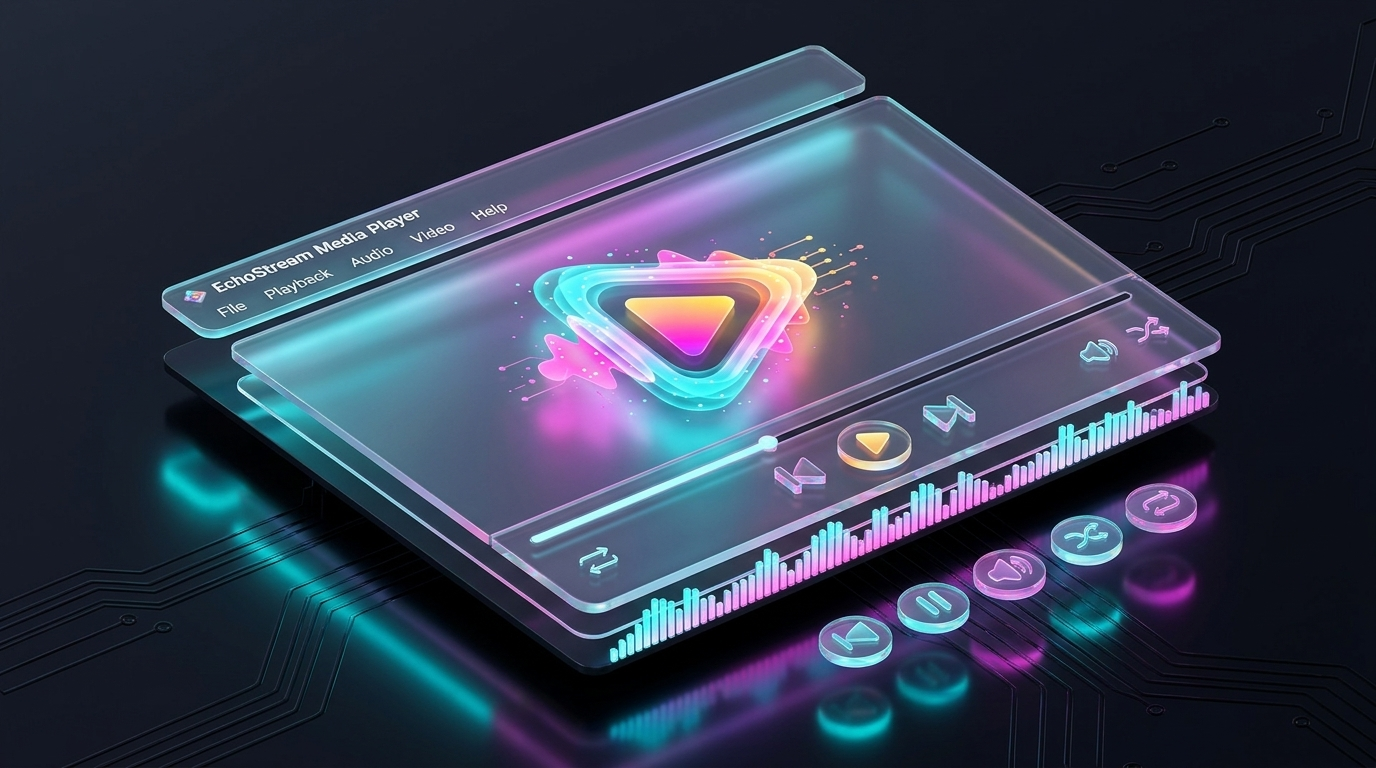
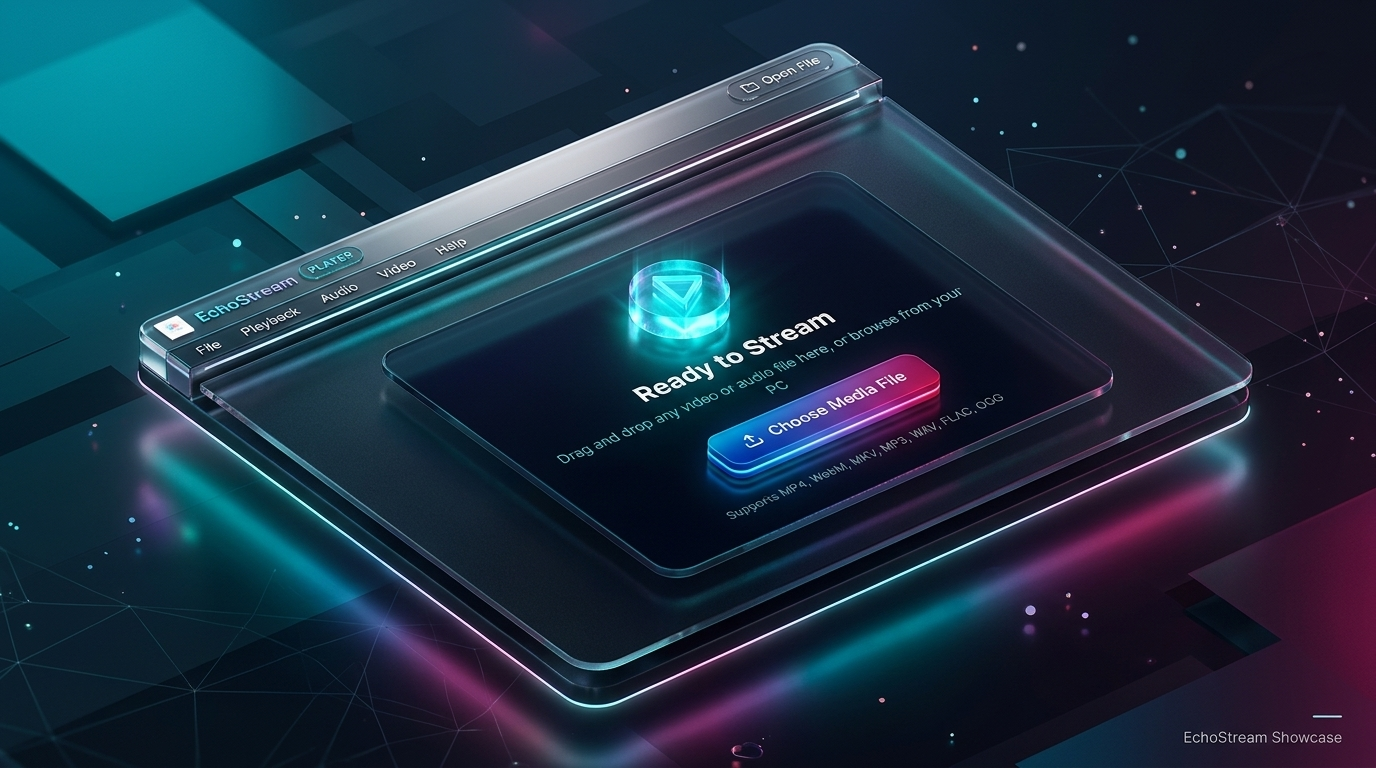
feat(projects): add Spotify Clone, update EchoStream image & badge, and enhance project badges

diff --git a/src/data/portfolioData.js b/src/data/portfolioData.js
@@ -150,7 +150,7 @@ export const projects = [
   },
   {
     id: "portfolio",
-    title: "Personal Portfolio v2",
+    title: "Personal Portfolio",
     badge: "React & Vite",
     featured: false,
     category: "frontend",
@@ -171,8 +171,8 @@ export const projects = [
   },
   {
     id: "echostream",
-    title: "EchoStream Player",
-    badge: "Audio App",
+    title: "EchoStream Media Player",
+    badge: "Audio & Video Player",
     featured: false,
     category: "frontend",
     icon: "Music",
@@ -188,6 +188,27 @@ export const projects = [
     links: {
       github: "https://github.com/ajitkumarsaini02/EchoStream-Media-Player",
       demo: "https://echostream-media-player.netlify.app/"
+    }
+  },
+  {
+    id: "spotify-clone",
+    title: "Spotify Clone",
+    badge: "Web Player Clone",
+    featured: false,
+    category: "frontend",
+    icon: "Headphones",
+    image: "/assets/projects/spotify.png",
+    description:
+      "A responsive Spotify web player frontend clone replicating Spotify's desktop streaming interface, playlist navigation, search, and audio playback controls.",
+    bullets: [
+      "Replicated pixel-perfect Spotify dark-theme UI with library sidebar, search, and browse categories.",
+      "Implemented seamless audio playback engine with track seeker, volume control, play/pause state, and track queue.",
+      "Optimized for smooth 60fps performance and deployed live on Netlify."
+    ],
+    tech: ["JavaScript (ES6+)", "HTML5 Audio", "CSS3 Flexbox/Grid", "Netlify"],
+    links: {
+      github: "https://github.com/ajitkumarsaini02/Spotify-Clone",
+      demo: "https://spotify-music-cl.netlify.app/"
     }
   }
 ];

diff --git a/src/index.css b/src/index.css
@@ -1271,7 +1271,48 @@ h1, h2, h3, h4, h5, h6 {
   position: absolute;
   top: 14px;
   right: 14px;
-  z-index: 2;
+  z-index: 5;
+}
+
+.project-badge-tag {
+  display: inline-flex;
+  align-items: center;
+  gap: 7px;
+  padding: 6px 14px;
+  border-radius: var(--radius-full);
+  font-family: var(--font-mono);
+  font-size: 0.76rem;
+  font-weight: 700;
+  letter-spacing: 0.02em;
+  background: rgba(8, 11, 17, 0.92) !important;
+  color: #00F2FE !important;
+  border: 1px solid rgba(0, 242, 254, 0.5) !important;
+  backdrop-filter: blur(14px);
+  -webkit-backdrop-filter: blur(14px);
+  box-shadow: 0 4px 18px rgba(0, 0, 0, 0.7), 0 0 12px rgba(0, 242, 254, 0.25);
+  white-space: nowrap;
+}
+
+.project-badge-tag::before {
+  content: '';
+  width: 6px;
+  height: 6px;
+  border-radius: 50%;
+  background: #00F2FE;
+  box-shadow: 0 0 8px #00F2FE;
+  flex-shrink: 0;
+}
+
+[data-theme='light'] .project-badge-tag {
+  background: rgba(15, 23, 42, 0.92) !important;
+  color: #38BDF8 !important;
+  border: 1px solid rgba(56, 189, 248, 0.6) !important;
+  box-shadow: 0 4px 16px rgba(0, 0, 0, 0.45);
+}
+
+[data-theme='light'] .project-badge-tag::before {
+  background: #38BDF8;
+  box-shadow: 0 0 8px #38BDF8;
 }
 
 /* Card Content Body */

diff --git a/src/components/Projects.jsx b/src/components/Projects.jsx
@@ -1,6 +1,6 @@
 import React, { useState } from 'react';
 import { motion, AnimatePresence } from 'framer-motion';
-import { FolderGit2, ExternalLink, Github, Sparkles, Cpu, CheckSquare, Music } from 'lucide-react';
+import { FolderGit2, ExternalLink, Github, Sparkles, Cpu, CheckSquare, Music, Headphones } from 'lucide-react';
 import { projects } from '../data/portfolioData';
 import ScrollReveal from './ScrollReveal';
 import TiltCard from './TiltCard';
@@ -20,7 +20,8 @@ export default function Projects() {
     Cpu: <Cpu size={24} />,
     CheckSquare: <CheckSquare size={24} />,
     Sparkles: <Sparkles size={24} />,
-    Music: <Music size={24} />
+    Music: <Music size={24} />,
+    Headphones: <Headphones size={24} />
   };
 
   return (
@@ -96,7 +97,7 @@ export default function Projects() {
                       />
                       <div className="project-image-gradient" />
                       <div className="project-image-badge">
-                        <span className="badge badge-cyan">
+                        <span className="project-badge-tag">
                           {project.badge}
                         </span>
                       </div>
